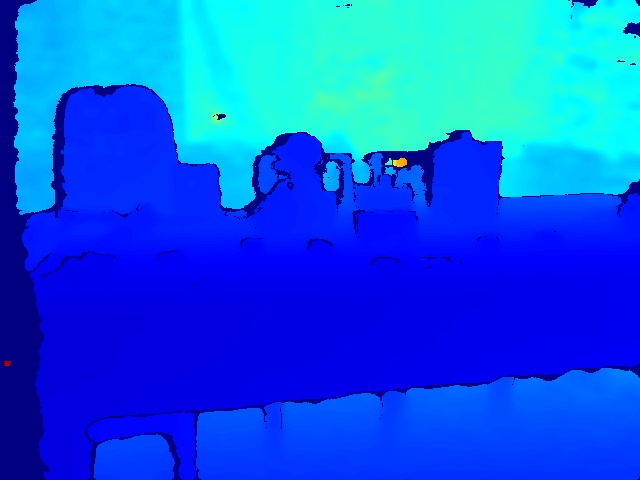
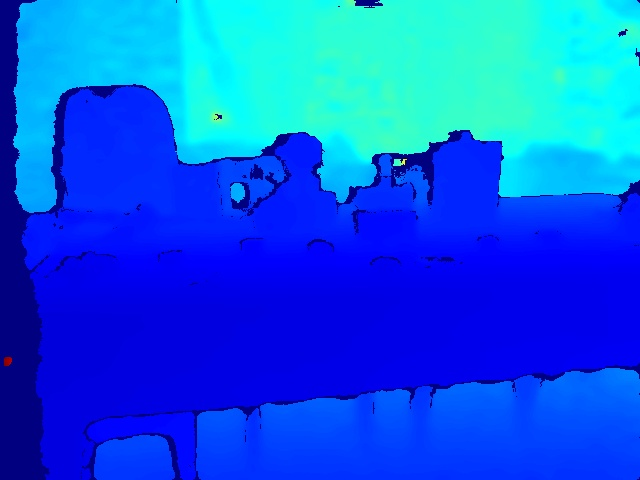
Fix: Correct RGB->BGR color conversion in RealSense guide and assets

diff --git a/realsense-d415-guide.md b/realsense-d415-guide.md
@@ -84,9 +84,10 @@ try:
     depth_image = np.asanyarray(depth_frame.get_data())
     color_image = np.asanyarray(color_frame.get_data())
 
-    # Save RGB image
+    # Save RGB image (Convert RGB to BGR for OpenCV)
+    color_image_bgr = cv2.cvtColor(color_image, cv2.COLOR_RGB2BGR)
     rgb_path = os.path.join(output_dir, "table_view.jpg")
-    cv2.imwrite(rgb_path, color_image)
+    cv2.imwrite(rgb_path, color_image_bgr)
     print(f"Saved RGB image to: {rgb_path}")
 
     # Save Depth image (normalized for visibility)
